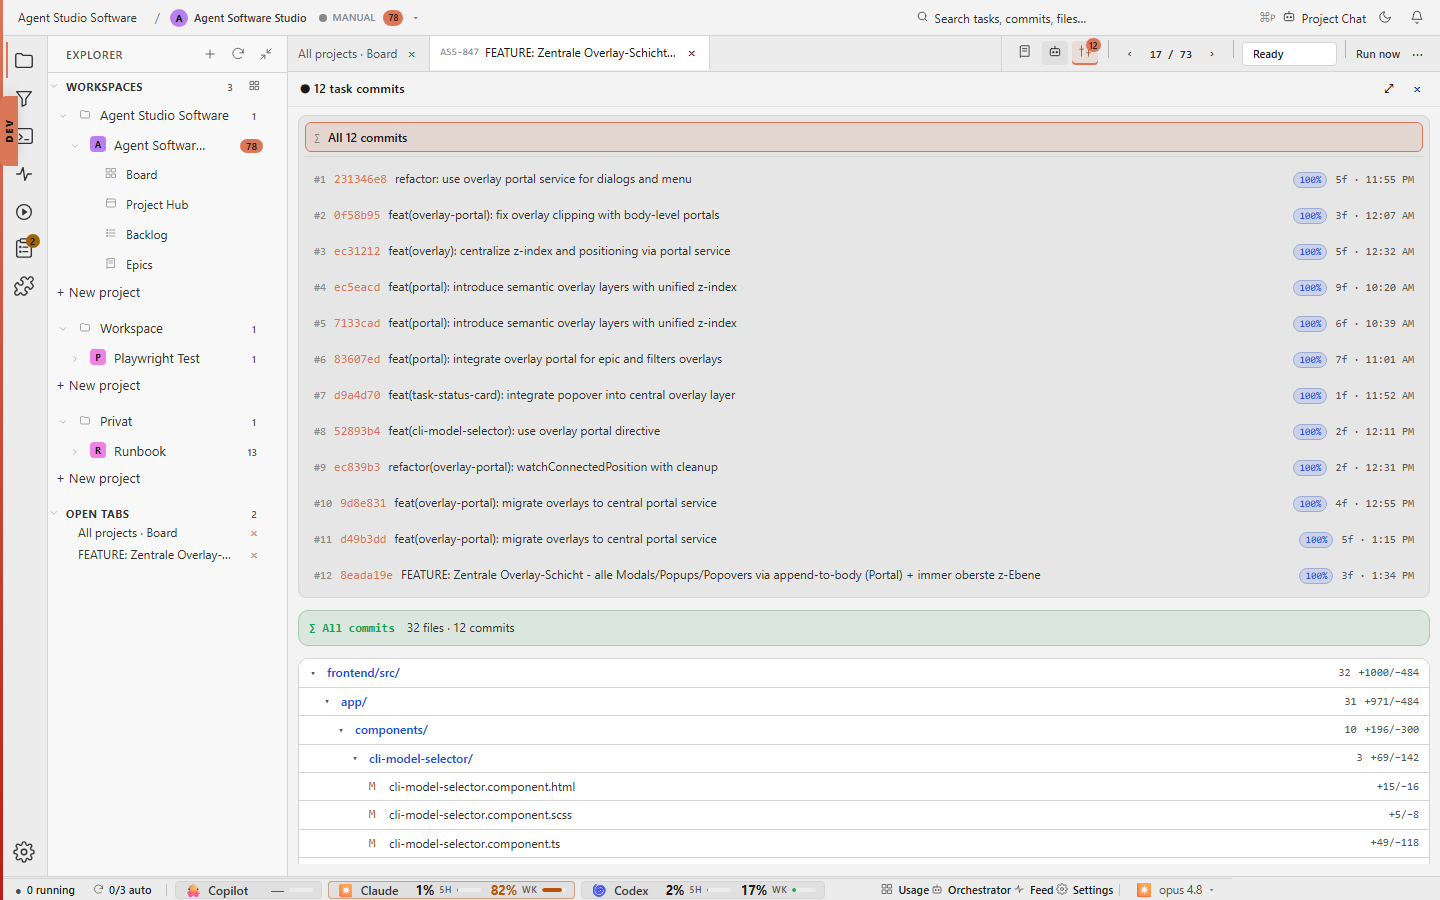
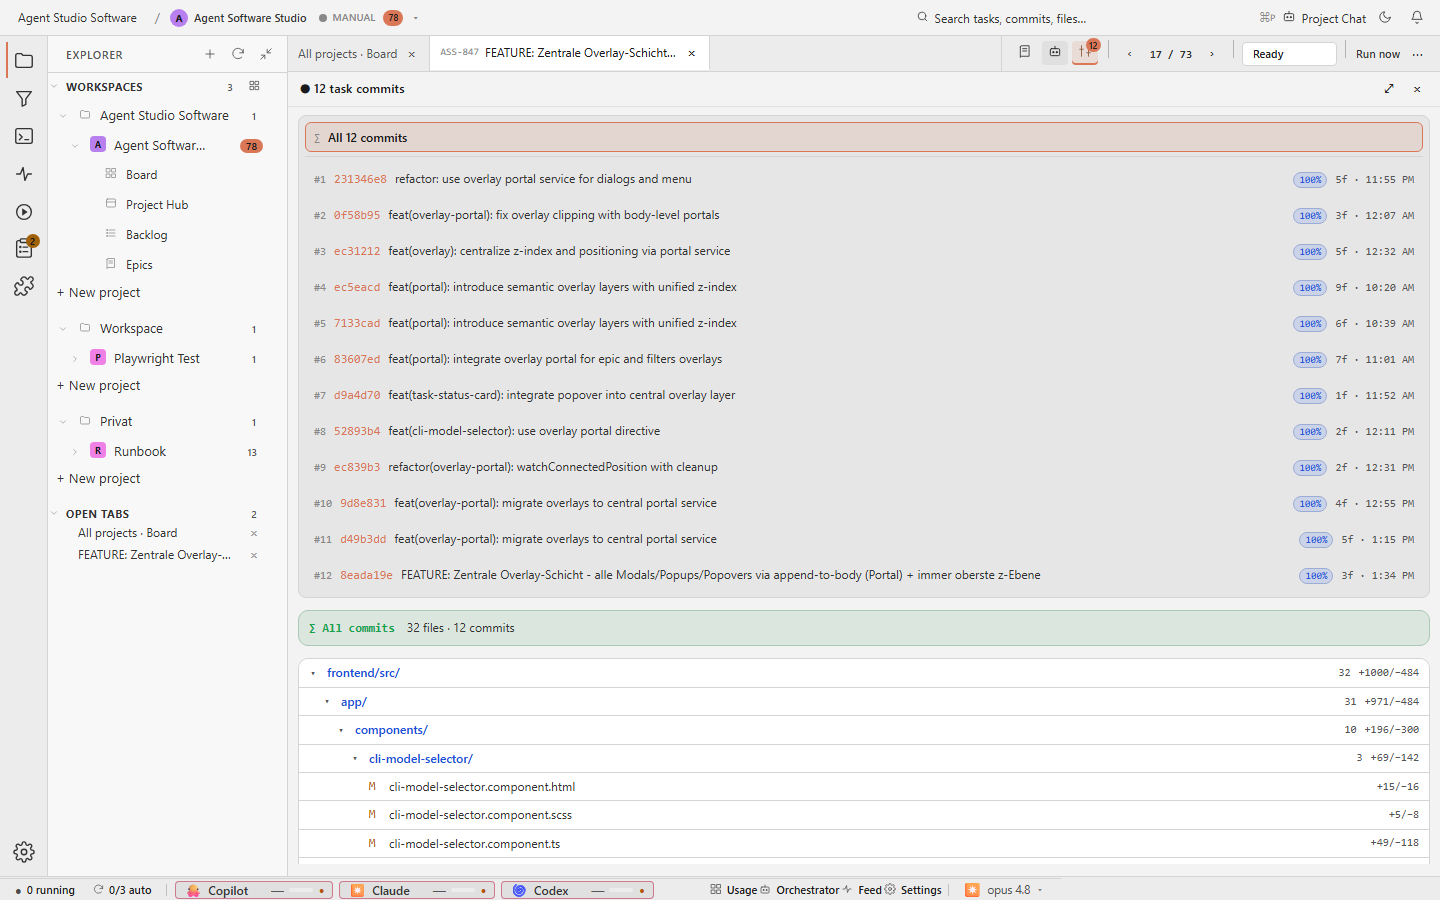
Hide dev chrome in visual documentation captures

Changed region(s): [[0.125, 0.9644, 0.8438, 1.0], [0.0, 0.0933, 0.0312, 0.1867]]

diff --git a/frontend/e2e/visual-evidence/readme-screenshots.spec.ts b/frontend/e2e/visual-evidence/readme-screenshots.spec.ts
@@ -10,6 +10,20 @@ const OUT = '../docs/images/';
 const TASK_CARD = '[data-testid="task-card"], [data-testid="job-card"]';
 const PRIMARY_TASK_LABELS = ['ASS-847', 'ASS-850', 'ASS-856', 'ASS-1529'];
 
+async function applyVisualCaptureMode(page: Page): Promise<void> {
+  if ((process.env.PW_VISUAL_CAPTURE ?? 'marketing') !== 'marketing') return;
+
+  await page.addStyleTag({
+    content: `
+      body::before,
+      .dev-banner,
+      [data-testid="dev-banner"] {
+        display: none !important;
+      }
+    `,
+  });
+}
+
 async function capture(page: Page, fileName: string) {
   await page.waitForTimeout(500);
   await page.screenshot({ path: `${OUT}${fileName}`, fullPage: false });
@@ -53,6 +67,8 @@ test('readme screenshots — board and task detail states', async ({ page, devBa
   await api('/api/watch-paths');
 
   await page.goto('/');
+  await applyVisualCaptureMode(page);
+  await expect(page.getByTestId('dev-banner')).toBeHidden({ timeout: 5_000 });
   await expect(page.locator(TASK_CARD).first()).toBeVisible({ timeout: 15_000 });
   await capture(page, 'board-overview.png');
 

diff --git a/docs/visual/README.md b/docs/visual/README.md
@@ -44,6 +44,10 @@ Generate the current visual documentation set from the product repo root:
 
 The script runs the Playwright screenshot recipe and then validates the manifest.
 It writes the generated PNG files to [`docs/images/`](../images/).
+By default it uses `PW_VISUAL_CAPTURE=marketing`, which hides local-only dev
+chrome such as the `DEV` banner and left-edge stripe before writing screenshots.
+Set `PW_VISUAL_CAPTURE=workspace` when you intentionally want the local checkout
+marker in debugging captures.
 
 You can also run the Playwright recipe directly from the frontend folder:
 
@@ -57,6 +61,8 @@ Preconditions:
 - the dev frontend is reachable at the configured Playwright target
 - the backend exposes at least one existing project with visible task cards
 - the spec can write to `../docs/images/`
+- marketing capture mode is acceptable for public docs, so local-only DEV
+  markers are hidden from generated product images
 
 The spec uses existing task data. Preferred task keys are kept in the spec so
 the generated set stays visually stable, but the run can fall back to the first
